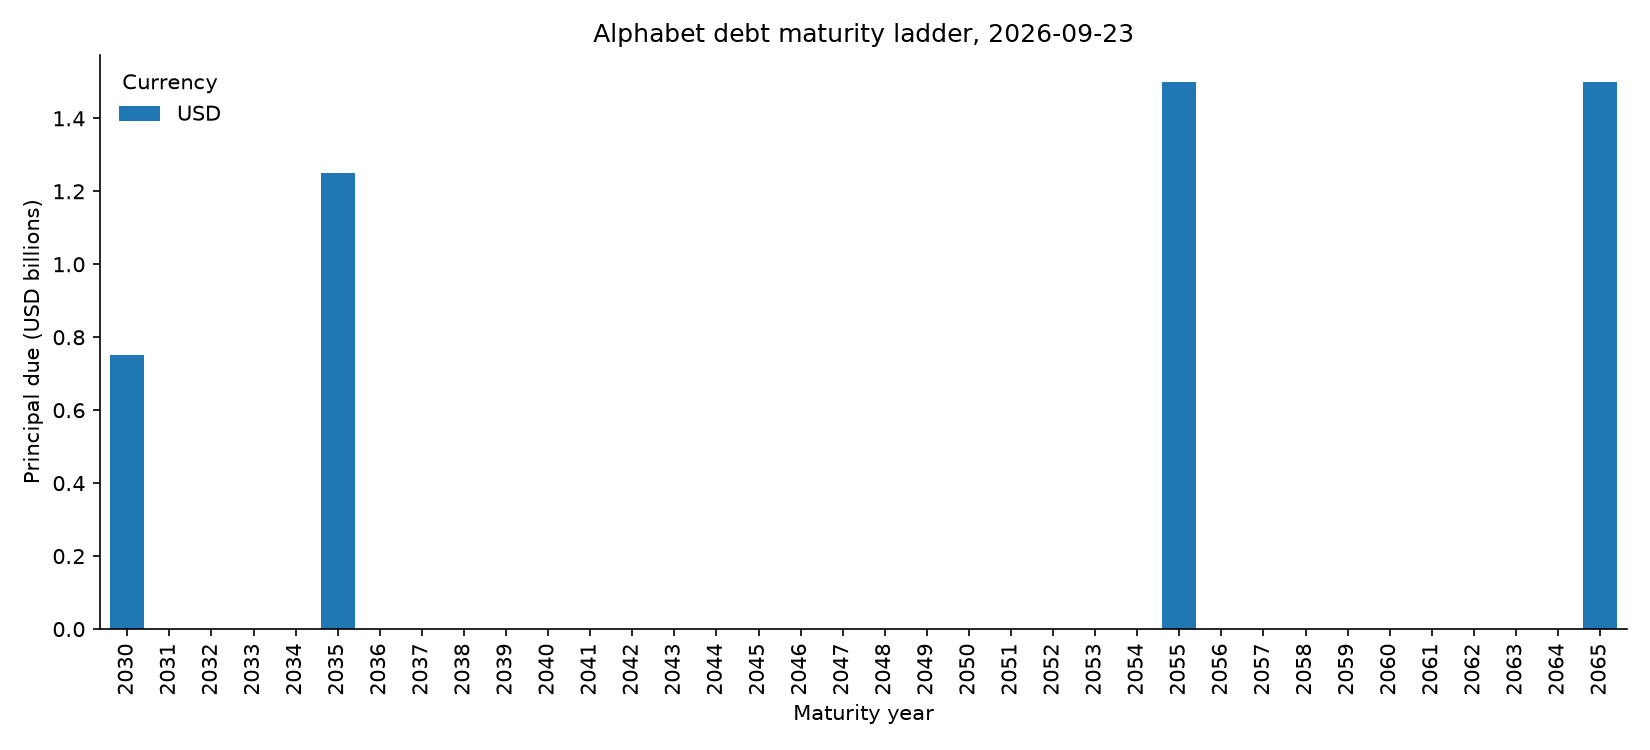
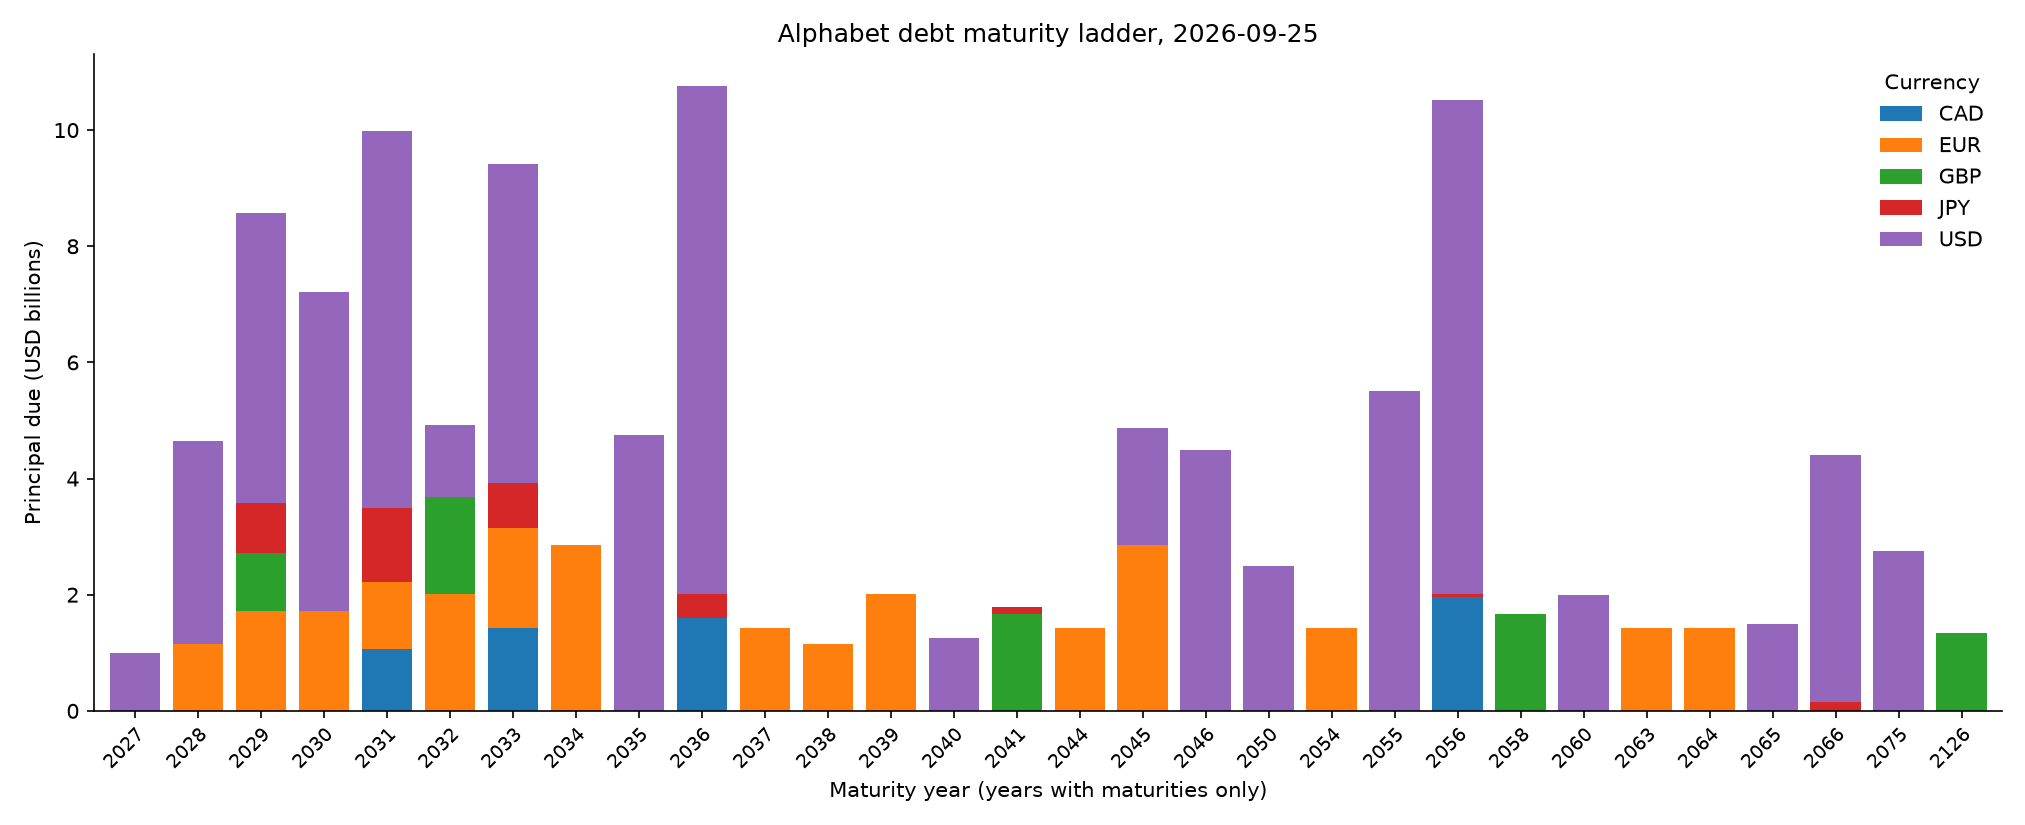
README: reconciliation, refi method, sensitivity findings

Changed region(s): [[0.0, 0.092, 0.9891, 0.9813], [0.34, 0.0307, 0.68, 0.0613], [0.0309, 0.092, 0.1236, 0.184]]

diff --git a/README.md b/README.md
@@ -1,90 +1,109 @@
 # Alphabet Treasury Lab
 
-Tracking how Alphabet funds its AI infrastructure buildout: what it borrows, in which currencies, at what cost, and when it comes due.
+A treasury monitor for Alphabet built from public data. It reconstructs Alphabet's bond portfolio from SEC filings, one row per note, and uses that to look at debt outstanding, currency mix, maturities, interest cost, and refinancing exposure.
 
-## Setup
+## Current snapshot
+
+As of September 25, 2026, from `scripts/treasury.py` (face value, non-USD notes converted at current FX):
+
+| | |
+|---|---|
+| Debt tracked | $119.0B |
+| Notes | 67 |
+| Weighted average coupon | 4.43% |
+| Weighted average maturity | 16.6 years |
+| Annual coupon cost | $5.2B |
+| Maturing within five years | $30.3B |
+
+Currency mix: USD 64.3%, EUR 21.4%, GBP 6.2%, CAD 5.1%, JPY 3.1%.
+
+The script also writes a maturity ladder by currency (`output/maturity_ladder.png`) and a refinancing sensitivity table (`output/refi_sensitivity.csv`).
+
+Refinancing the notes that mature within five years raises annual interest cost even if yields fall 100bp. Those notes carry an average coupon of about 3.5%, below the refinancing yields used here (the latest deal in each currency). CAD and JPY are the exceptions: at -100bp their refinancing yields fall below the coupons on their maturing notes. The $1.8B of floating-rate notes is not in these figures (see Limitations).
+
+## Reconciliation
+
+As a cross-check, the database is compared with the long-term debt Alphabet reports in XBRL. At December 31, 2025:
+
+- The database has $49.07B of face value across 29 notes outstanding on that date, converted at December 31, 2025 FX rates.
+- Alphabet reported $49.09B of `LongTermDebt`, which matches the total face value in the 10-K debt footnote.
+- The gap is about -$16M, from the EUR rate. The 10-K implies about 1.1762 USD per euro for its euro notes ($15,585M for €13,250M); the database uses the ECB reference rate for that date, 1.1750.
+
+Every series in the 10-K debt footnote is now in the database. The last one added was the 2016 US dollar notes (1.998%, due August 2026), taken from the 2016 prospectus supplement and pricing term sheet. Those notes have since matured, so they count here but not in the current snapshot.
+
+Another $72.87B across 39 notes was issued after December 31, 2025 and is outside that comparison.
+
+The two figures aren't expected to match exactly. Missing notes, FX translation, and differences between face value and reported amounts all affect the comparison.
+
+## How the database is built
+
+```
+SEC filings -> extraction -> validation -> my review -> tranche database -> analysis
+```
+
+Most notes come from the pricing term sheets (FWP filings) Alphabet files for each bond deal. A local language model reads each term sheet and fills in the terms: size, coupon, maturity, price, yield, spread, benchmark, and CUSIP.
+
+Extracted terms are not accepted automatically. Each note is checked against the source filing:
+
+- every number has to appear in the filing, and size, coupon, and maturity have to appear under that note's own label
+- the yield recalculated from the price has to match the stated yield
+- the spread has to equal yield minus benchmark yield
+- net proceeds have to equal principal times price less the underwriting discount
+- CUSIP and ISIN check digits have to be valid
+
+Each note is marked PASS, WARN, or FAIL and goes into a pending file. I review each one against the filing, and only notes I approve are added to `data/tranches.csv`. FAIL notes can't be promoted.
+
+Notes without a pricing term sheet can be added by hand from the prospectus supplement or the 10-K/10-Q debt footnote. Every row carries its source filing and URL. If a number can't be traced to a document, it doesn't go in.
+
+## Limitations
+
+- **Floating-rate notes.** $1.8B of floating-rate notes is left out of coupon cost and weighted average coupon until a SOFR rate is entered in `data/market_yields.csv`.
+- **Refinancing sensitivity.** Only currencies with a refinancing yield in `data/market_yields.csv` are included.
+  - Each currency uses the principal-weighted re-offer yield of Alphabet's most recent deal in that currency (for USD, the fixed-rate notes from the August 2026 deal). These are new-issue yields at the time of each deal, not current market levels.
+  - This assumes maturing notes are replaced at the same maturity mix as that latest deal.
+  - Each note is assumed to be refinanced 1:1 in the same currency, with FX held constant and no swaps.
+- **Face value.** The analysis uses face value, not carrying value.
+- **FX.** The current snapshot uses one FX snapshot, not issue-date rates.
+- **Coverage.** Coverage is limited to notes that are in the database. See the reconciliation above.
+
+## Data sources
+
+- **SEC EDGAR:** filing index, pricing term sheets, and XBRL company facts (reported debt totals, debt maturities, interest expense)
+- **FX:** ECB reference rates via the Frankfurter API, current and as of the reconciliation date
+- **U.S. Treasury:** Daily Par Yield Curve Rates, saved to `data/treasury_curve.csv` for reference (not yet used in the calculations)
+- **Refinancing yields:** entered by hand in `data/market_yields.csv`, with the source on each row
+
+## Running it
 
 ```bash
 pip install -r requirements.txt
-export SEC_USER_AGENT="Your Name you@umich.edu"   # SEC requires name + email
-```
+export SEC_USER_AGENT="Your Name you@example.com"   # SEC requires name + email
+ollama pull qwen2.5:14b                               # local model, needs ~10 GB free memory
 
-## Workflow
-
-**1. Run the pipeline**
-
-```bash
-ollama serve                          # local model for extraction (ollama pull qwen2.5:14b)
-python scripts/run_pipeline.py
-```
-
-It runs these steps in order and stops at the first error:
-
-| Step | What it does |
-|---|---|
-| `edgar_pull.py` | Refreshes `data/filings_index.csv` (10-K, 10-Q, 8-K, 424B2, FWP) and `data/xbrl_debt_facts.csv` |
-| `extract_terms.py --index` | Extracts tranches from new FWP pricing term sheets into `data/tranches_pending.csv`; FWPs already in `data/extraction_audit.jsonl` are skipped (`--force` to redo) |
-| `update_fx.py` | Refreshes `data/fx_rates.csv` |
-| `update_yields.py` | Writes the latest U.S. Treasury par yield curve to `data/treasury_curve.csv` |
-| `treasury.py` | Summary, maturity ladder, refinancing sensitivity -> `output/` |
-| reconciliation | Live tranche face value in USD vs. latest reported `LongTermDebt` |
-
-Extraction uses `qwen2.5:14b` by default, which needs about 10 GB of free memory. On smaller machines, run `python scripts/extract_terms.py --index --model qwen2.5:7b` instead: it works, but makes more mistakes, so expect more WARN and FAIL rows to review.
-
-It ends with a summary: new filings, new pending rows by status, rows needing your review, and the reconciliation gap. It never promotes anything.
-
-**2. Review pending rows.** Open `data/tranches_pending.csv`. Each row has a `status` (PASS / WARN / FAIL) and `issues`; the evidence snippets and raw model output are in `data/extraction_audit.jsonl`. Check each row against the filing and set `approved` to `yes` on the ones you've verified.
-
-The model only does data entry. Every tranche is checked by `scripts/termcheck.py`: every number must appear in the filing, CUSIP/ISIN check digits must be valid, the yield recomputed from the price must match, spread must equal yield minus benchmark yield, net proceeds must add up, and the currency must match the symbol on the principal amount. Non-debt FWPs (equity offerings) are skipped before the model sees them.
-
-**3. Promote and re-run the analytics**
-
-```bash
-python scripts/promote.py             # approved, non-FAIL rows -> tranches.csv
+python scripts/run_pipeline.py    # pull filings, extract new term sheets, update FX and
+                                  # Treasury yields, run analysis and reconciliation
+# review data/tranches_pending.csv; set approved = yes on rows you've checked
+python scripts/promote.py         # approved rows -> data/tranches.csv
 python scripts/treasury.py
-python scripts/reconcile.py
 ```
 
-**Adding tranches by hand.** Notes without an FWP pricing term sheet go into `data/tranches.csv` directly. Fill in `source_filing` and `source_url` for every row; if a number can't be traced to a document, it doesn't go in.
+On machines with less memory, `python scripts/extract_terms.py --index --model qwen2.5:7b` works but makes more mistakes, so more rows get flagged.
 
-| Source | What it gives you |
-|---|---|
-| 424B2 prospectus supplements | Exact coupon, size, maturity, and pricing for USD deals |
-| 8-K filings around issuance dates | Underwriting agreements and note forms, often with foreign-currency deal terms |
-| 10-K / 10-Q debt footnote | Outstanding notes by currency, coupon ranges, total carrying value |
-| Bloomberg (Ross terminals) | Tranche-level data for non-USD deals, yields and spreads at issue |
-
-**Reconciliation.** The tranche total should land close to reported `LongTermDebt`. Differences come from FX, discounts and issuance costs, notes issued after the XBRL period end (reported separately), and any notes you've missed. Chase down anything large.
-
-**Checks.** Offline tests: `pytest`. Extraction regression against hand-verified values (writes nothing to the pending or audit files):
+`pytest` runs the offline tests. To check extraction against a hand-verified deal (the April 2025 USD notes):
 
 ```bash
-python scripts/extract_terms.py --url https://www.sec.gov/Archives/edgar/data/1652044/000119312525100802/d806252dfwp.htm --golden tests/golden/2025-04-28_usd.csv
+python scripts/extract_terms.py --golden tests/golden/2025-04-28_usd.csv \
+  --url https://www.sec.gov/Archives/edgar/data/1652044/000119312525100802/d806252dfwp.htm
 ```
 
-## Data files
+## Layout
 
-| File | Contents |
-|---|---|
-| `data/tranches.csv` | Your real database. |
-| `data/fx_rates.csv` | USD per unit of each currency |
-| `data/market_yields.csv` | Your refinancing yield estimate by currency (used by `treasury.py`) |
-| `data/treasury_curve.csv` | Latest U.S. Treasury par yield curve, one row per tenor |
-| `data/tranches_pending.csv` | Extracted tranches awaiting your review |
-| `data/extraction_audit.jsonl` | Raw model output, issues, and evidence per processed FWP |
-
-## Model limitations
-
-- Refinancing sensitivity assumes each tranche is rolled over 1:1 in the same currency, with FX held constant and no swaps.
-- USD conversion uses a single FX snapshot, not issue-date rates.
-- Carrying value differs from face value; this model uses face value.
-
-## Roadmap
-
-- [ ] Real tranche database, reconciled to reported debt
-- [ ] Research note: non-USD issuance and swapped-to-USD cost
-- [ ] Issue-date FX and USD-equivalent at issuance
-- [ ] Spread at issuance vs. benchmark (FRED for USD)
-- [ ] Peers: Amazon, Meta, Microsoft
-- [ ] Streamlit dashboard
-- [ ] Funding map: leases, guarantees, third-party structures (sourced, estimates labeled)
+```
+data/tranches.csv          the note database
+data/tranches_pending.csv  extracted notes awaiting review
+data/market_yields.csv     refinancing yields and index rates
+scripts/treasury.py        portfolio analytics
+scripts/reconcile.py       comparison with reported debt
+scripts/extract_terms.py   term-sheet extraction
+scripts/termcheck.py       checks against the source filing
+```
